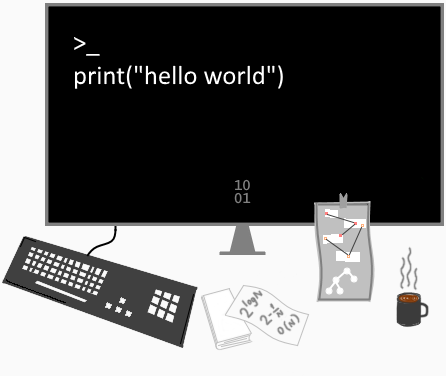
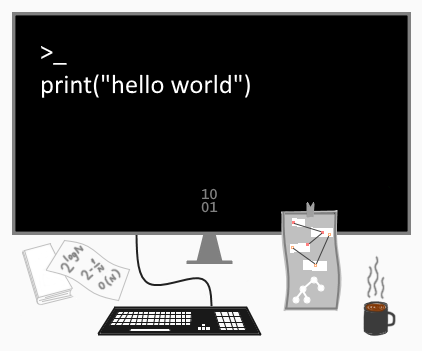
Computer science representation image is redrawn.

diff --git a/subpages/change_log.md b/subpages/change_log.md
@@ -5,9 +5,11 @@ title: Change Log
 
 #### Change Log
 
+26.11.2018 - Computer science representation image is redrawn.
+
 25.11.2018 (3) - Main page link added to top of subpage layout.
 
-25.11.2018 (2) - Website logo which is Snowflake in a Black Square relocated on the header instead of simple black hexagon.
+25.11.2018 (2) - Website logo which is Snowflake in a Black Square relocated on top of the header instead of simple black hexagon.
 
 <div style="display: inline-block;
 			width: 100%;
